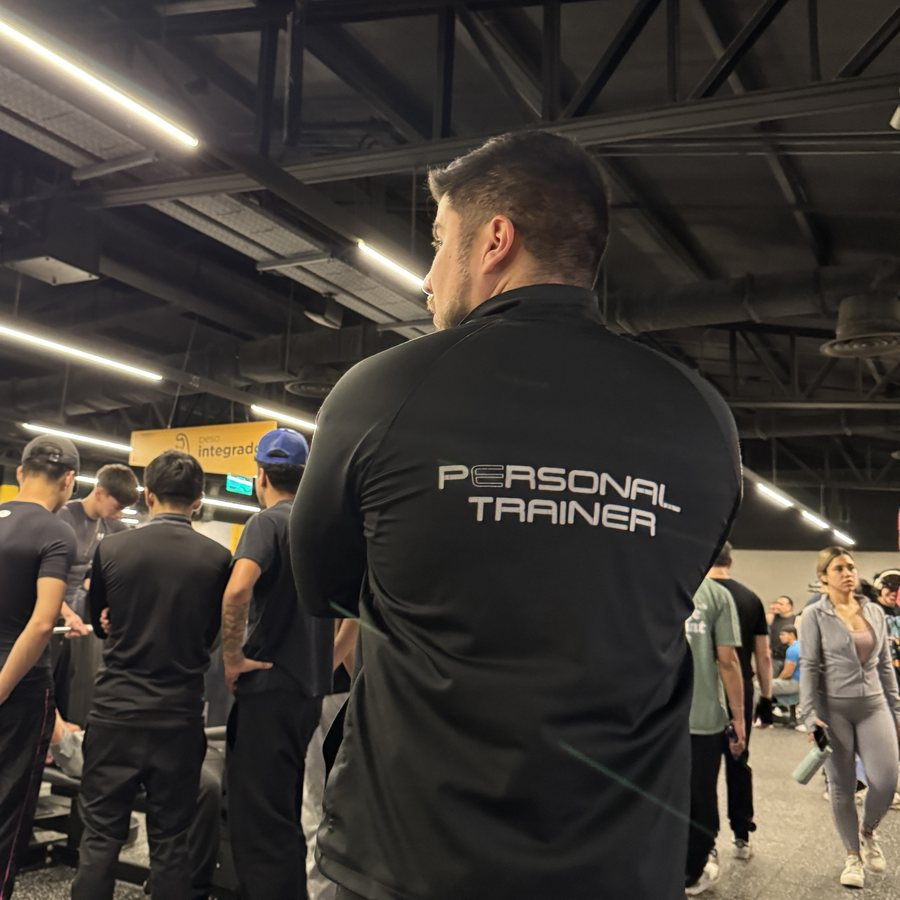
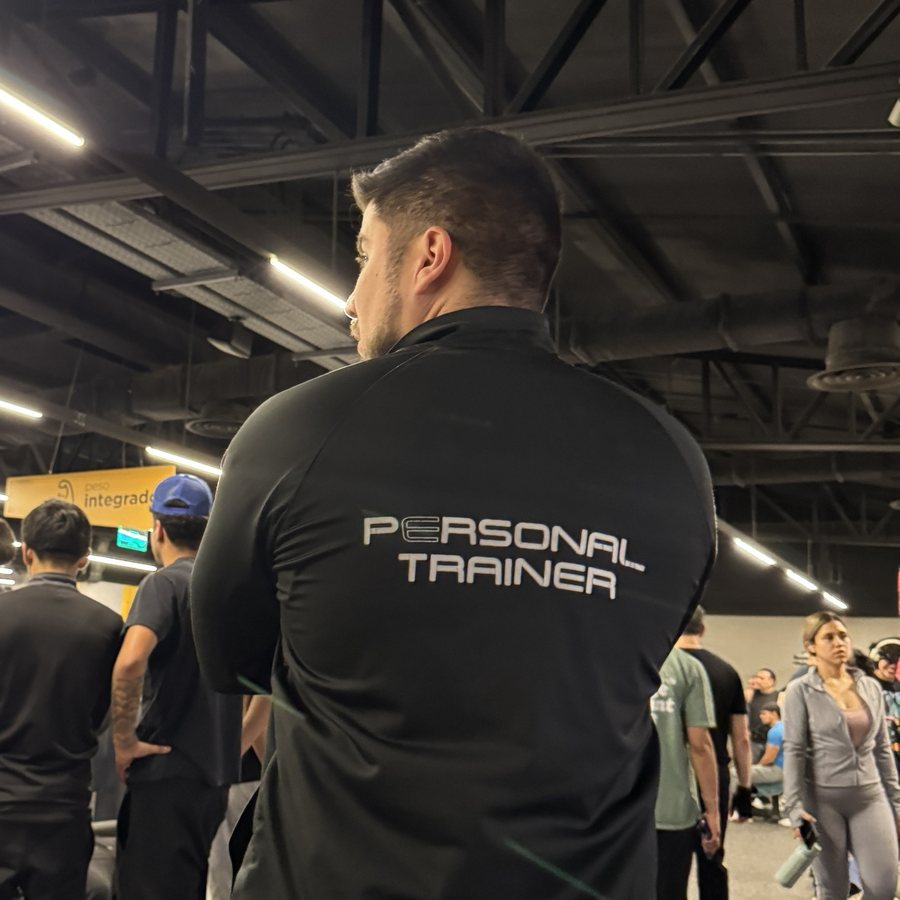
Foto del hero centrada, etiquetas fuera de la chaqueta y presencial más corto
Claude-Session: https://claude.ai/code/session_01Miwa7fCuVQBLvGpheWSpiC

diff --git a/index.html b/index.html
@@ -192,9 +192,9 @@
           <header class="path__head"><span class="path__num">01</span><h3 class="path__title">Entrenamiento <em>personal</em></h3><span class="path__where">Presencial · Smart Fit Portugal, Santiago</span></header>
           <p class="path__lead">Uno a uno. Yo, a tu lado, <em>en cada sesión.</em></p>
           <dl class="path__rows">
-            <div><dt>Para</dt><dd>Quienes quieren aprender a entrenar acompañados, con alguien que los mire y corrija en cada ejercicio.</dd></div>
-            <div><dt>Resuelve</dt><dd>No saber si lo estás haciendo bien, ni cómo mejorarlo.</dd></div>
-            <div><dt>Incluye</dt><dd>Sesiones uno a uno, conmigo presente de principio a fin. Evaluación inicial de cómo te mueves, corrección de técnica en vivo, y tu plan y registro en la app NL Training.</dd></div>
+            <div><dt>Para</dt><dd>Quienes quieren entrenar acompañados, con alguien que los corrija.</dd></div>
+            <div><dt>Resuelve</dt><dd>No saber si lo estás haciendo bien.</dd></div>
+            <div><dt>Incluye</dt><dd>Sesiones uno a uno, evaluación inicial, corrección de técnica en vivo y tu plan en la app NL Training.</dd></div>
           </dl>
           <a class="path__cta" href="https://wa.me/56978354063?text=Hola%20Nicol%C3%A1s%2C%20vi%20NL%20Training%20y%20me%20interesa%20conocer%20el%20entrenamiento%20presencial." target="_blank" rel="noopener" data-ev="wa_presencial"><svg class="wa-ico" viewBox="0 0 24 24" aria-hidden="true"><path d="M12 2.5a9.5 9.5 0 0 0-8.2 14.3L2.5 21.5l4.8-1.3A9.5 9.5 0 1 0 12 2.5Z" fill="none" stroke="currentColor" stroke-width="1.5" stroke-linejoin="round"/><path d="M8.6 7.9c.2-.4.4-.4.7-.4h.5c.2 0 .4 0 .6.4l.8 1.9c.1.2 0 .4-.1.6l-.5.6c-.1.1-.2.3 0 .5.5.9 1.6 2 2.6 2.5.2.1.4.1.5-.1l.6-.7c.2-.2.4-.2.6-.1l1.8.9c.2.1.4.2.4.4 0 .5-.1 1.1-.6 1.5-.5.4-1.2.6-1.9.5-1-.1-2.6-.7-4-2.1-1.6-1.5-2.3-3.2-2.4-4.1 0-.8.3-1.5.4-1.7Z" fill="currentColor"/></svg><span>Quiero entrenar presencial</span></a>
         </article>

diff --git a/styles.css b/styles.css
@@ -141,9 +141,9 @@ em { font-style: italic; color: var(--stone); }
   font-size: 11px; letter-spacing: .26em; text-transform: uppercase;
   animation: pop .8s var(--ease) both, float 6s ease-in-out infinite;
 }
-.hero__badge--a { left: -4%; top: 22%; animation-delay: 1.4s, 2.2s; }
-.hero__badge--b { right: -3%; top: 70%; animation-delay: 1.7s, 3s; }
-.hero__badge--c { left: 12%; bottom: 4%; animation-delay: 2s, 3.8s; }
+.hero__badge--a { left: -6%; top: 20%; animation-delay: 1.4s, 2.2s; }
+.hero__badge--b { right: -3%; top: 76%; animation-delay: 1.7s, 3s; }
+.hero__badge--c { left: 0%; bottom: 14%; animation-delay: 2s, 3.8s; }
 
 /* ---------- Problema ---------- */
 .problem { background: var(--ink); color: var(--paper); padding: clamp(72px, 11vw, 140px) var(--pad); }
